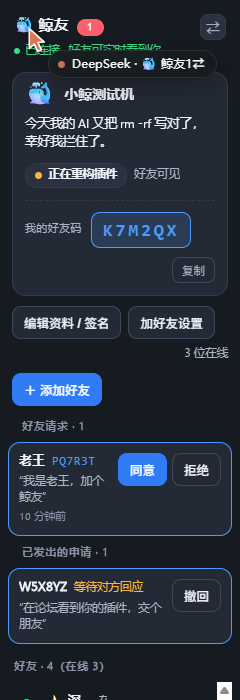
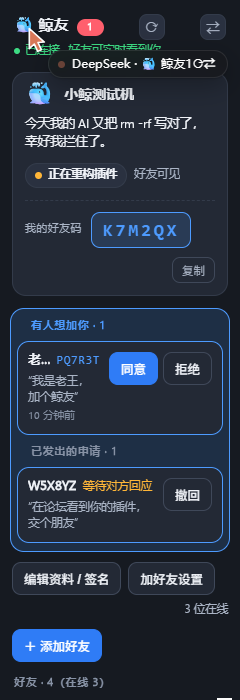
fix(friends): friend requests were never decryptable by the recipient
Root cause: a message is encrypted with the RECIPIENT's friend code, but
the receive path only tried the codes of people the user already knew
(friends + remembered requests). So for somebody who had added nobody
yet, candidateCodes() returned [] and every incoming friend request was
silently dropped -- which is exactly why the accept button never showed
up for anyone.

- candidateCodes() now starts with the user's own code (that is what a
  sender knows), then falls back to known relationships for older
  messages
- every request-ish message carries fromCode, so the recipient learns who
  is asking even though it only ever knew its own code; accept and remove
  read it the same way
- a delivered request now emits a toast and is answered with
  friend_request_ack, so the sender stops staring at 'waiting' blindly
- the request inbox moved directly under the profile card, highlighted
  with an accent border and the heading '有人想加你', plus a manual refresh
  button in the header for when a push goes missing

Tests: +3 (19 total). One of them models the exact old bug: a user with
zero friends must still be able to decrypt a request addressed to them.

diff --git a/lib/client.js b/lib/client.js
@@ -308,6 +308,8 @@ body[data-ds-dark-theme] .dshf-wrap{
 /* ---------- 好友申请 ---------- */
 .dshf-badge{display:inline-flex;align-items:center;justify-content:center;min-width:17px;height:17px;padding:0 5px;border-radius:999px;background:var(--dshf-err);color:#fff;font-size:10.5px;font-weight:700;line-height:1}
 .dshf-reqs{margin:0 8px 6px}
+.dshf-reqs.has-new{margin:2px 10px 10px;padding:6px 6px 2px;border-radius:14px;background:var(--dshf-accent-soft);border:1px solid var(--dshf-accent)}
+.dshf-sec-attn{color:var(--dshf-accent) !important;font-weight:700}
 .dshf-req{display:flex;align-items:flex-start;gap:9px;padding:10px;margin:0 0 6px;border-radius:12px;background:var(--dshf-card);border:1px solid var(--dshf-accent)}
 .dshf-req-main{min-width:0;flex:1}
 .dshf-req-line{display:flex;align-items:baseline;gap:7px}
@@ -500,14 +502,32 @@ body[data-ds-dark-theme] .dshf-wrap{
        * 所有可能收到消息的码：好友 + 待处理的申请方 + 我发出申请的对方。
        * 好友申请阶段对方还不是好友，所以必须把请求相关的码也加进来，否则解不开。
        */
+      /**
+       * 解密候选码。顺序很重要：
+       *   1. 自己的码 —— 别人发给我的消息（申请/接受/戳）都用「我的码」加密，
+       *      因为他们知道我的码。**这一条缺了，好友申请就永远收不到。**
+       *   2. 好友的码 —— 兼容早期版本用「对方码」加密的写法。
+       * 每个好友/申请相关码都试一遍，一份密文只会有一个码解得开。
+       */
       function candidateCodes() {
         const me = state.me
         if (!me) return []
-        const codes = new Set()
-        for (const f of me.friends) codes.add(f.code)
-        for (const r of (me.requests.incoming || [])) codes.add(r.code)
-        for (const r of (me.requests.outgoing || [])) codes.add(r.code)
-        return Array.from(codes)
+        const codes = []
+        const seen = new Set()
+        const add = (c) => {
+          if (typeof c !== 'string') return
+          const up = c.toUpperCase()
+          if (!up || seen.has(up)) return
+          seen.add(up)
+          codes.push(up)
+        }
+        // 1) 自己的码优先：别人加我时只知道我的码
+        add(me.code)
+        // 2) 已建立关系的人（双向兼容）
+        for (const f of (me.friends || [])) add(f.code)
+        for (const r of (me.requests.incoming || [])) add(r.code)
+        for (const r of (me.requests.outgoing || [])) add(r.code)
+        return codes
       }
 
       async function handleMessage(topic, payloadBytes) {
@@ -542,29 +562,50 @@ body[data-ds-dark-theme] .dshf-wrap{
 
           // ---------- 好友申请流程 ----------
           } else if (msg.kind === 'friend_request') {
-            // 别人加我：若已是好友则忽略；若开着 auto 就直接同意并回执
-            if (me.friends.some((f) => f.code === code)) return
+            // 别人加我：消息是用「我的码」加密的，所以申请人是谁要看 fromCode。
+            // 老版本没带 fromCode，就用当前命中的 code 兜底。
+            const fromCode = String(msg.fromCode || code).toUpperCase()
+            if (!validCode(fromCode)) return
+            if (me.friends.some((f) => f.code === fromCode)) return
             const inc = (me.requests.incoming || []).slice()
-            if (!inc.some((r) => r.code === code)) {
+            if (!inc.some((r) => r.code === fromCode)) {
               inc.push({
-                code,
+                code: fromCode,
                 fromNickname: msg.fromNickname || '',
                 message: msg.message || '',
                 ts: msg.ts || Date.now(),
               })
               await apiPost('/profile', { requests: { incoming: inc, outgoing: me.requests.outgoing || [] } })
               await refreshMe()
+              // 有人加我：弹出提示，避免"申请静静躺在列表里没人知道"
+              state.toasts = state.toasts || []
+              const tk = Math.random().toString(36).slice(2)
+              state.toasts.push({
+                key: tk,
+                text: (msg.fromNickname || fromCode) + ' 请求加你为好友，去「好友请求」里同意',
+              })
+              emit()
+              setTimeout(() => { state.toasts = (state.toasts || []).filter((t) => t.key !== tk); emit() }, 6000)
+              // 回执：告诉申请人「申请已送达」，否则对方只能干等
+              await sendTo(fromCode, { kind: 'friend_request_ack', fromCode: me.code, ts: Date.now() })
             }
             if (me.acceptMode === 'auto') {
-              await acceptRequest(code)
+              await acceptRequest(fromCode)
             }
             return
+          } else if (msg.kind === 'friend_request_ack') {
+            // 对方收到了我的申请（先解决「石沉大海」的焦虑）
+            const fromCode = String(msg.fromCode || code).toUpperCase()
+            const fr = state.friends.get(fromCode)
+            if (fr) { fr.acked = true; emit() }
+            return
           } else if (msg.kind === 'friend_accept') {
+            const fromCode = String(msg.fromCode || code).toUpperCase()
             // 我加的人同意了：互相成为好友，清掉我的 outgoing 记录
             const friends = me.friends.slice()
-            const out = (me.requests.outgoing || []).filter((r) => r.code !== code)
-            if (!friends.some((f) => f.code === code)) {
-              friends.push({ code, alias: msg.nickname || '', addedAt: Date.now() })
+            const out = (me.requests.outgoing || []).filter((r) => r.code !== fromCode)
+            if (!friends.some((f) => f.code === fromCode)) {
+              friends.push({ code: fromCode, alias: msg.nickname || '', addedAt: Date.now() })
               await apiPost('/friends', { friends })
             }
             await apiPost('/profile', { requests: { incoming: me.requests.incoming || [], outgoing: out } })
@@ -572,19 +613,21 @@ body[data-ds-dark-theme] .dshf-wrap{
             // 面板上给个 toast：用戳一戳的动画位提示一下
             state.toasts = state.toasts || []
             const tk = Math.random().toString(36).slice(2)
-            state.toasts.push({ key: tk, text: (msg.nickname || code) + ' 同意了你的好友请求' })
+            state.toasts.push({ key: tk, text: (msg.nickname || fromCode) + ' 同意了你的好友请求' })
             emit()
             setTimeout(() => { state.toasts = (state.toasts || []).filter((t) => t.key !== tk); emit() }, 2600)
             return
-          } else if (msg.kind === 'friend_remove' && isFriend) {
-            // 对方删了我：本地也删掉，并清掉相关请求
-            const friends = me.friends.filter((f) => f.code !== code)
+          } else if (msg.kind === 'friend_remove') {
+            // 对方删了我：消息用我的码加密，所以来源看 fromCode；兜底用命中码。
+            const fromCode = String(msg.fromCode || code).toUpperCase()
+            if (!state.friends.has(fromCode)) return
+            const friends = me.friends.filter((f) => f.code !== fromCode)
             await apiPost('/friends', { friends })
-            state.friends.delete(code)
+            state.friends.delete(fromCode)
             await apiPost('/profile', {
               requests: {
-                incoming: (me.requests.incoming || []).filter((r) => r.code !== code),
-                outgoing: (me.requests.outgoing || []).filter((r) => r.code !== code),
+                incoming: (me.requests.incoming || []).filter((r) => r.code !== fromCode),
+                outgoing: (me.requests.outgoing || []).filter((r) => r.code !== fromCode),
               },
             })
             await refreshMe()
@@ -615,6 +658,8 @@ body[data-ds-dark-theme] .dshf-wrap{
         await sendTo(code, {
           kind: 'friend_request',
           from: state.me.id,
+          // 关键：收件人解密后必须知道「是谁加的」，因为他只认识我的码
+          fromCode: state.me.code,
           fromNickname: state.me.nickname,
           message: entry.message,
           ts: entry.ts,
@@ -644,6 +689,7 @@ body[data-ds-dark-theme] .dshf-wrap{
         await sendTo(code, {
           kind: 'friend_accept',
           from: me.id,
+          fromCode: me.code,
           nickname: me.nickname,
           ts: Date.now(),
         })
@@ -679,7 +725,7 @@ body[data-ds-dark-theme] .dshf-wrap{
         await apiPost('/friends', { friends })
         state.friends.delete(code)
         await refreshMe()
-        await sendTo(code, { kind: 'friend_remove', from: me.id, ts: Date.now() })
+        await sendTo(code, { kind: 'friend_remove', from: me.id, fromCode: me.code, ts: Date.now() })
         sendPresence()
       }
 
@@ -748,6 +794,8 @@ body[data-ds-dark-theme] .dshf-wrap{
         },
         updateProfile, addFriend, removeFriend, poke, setAlias,
         acceptRequest, rejectRequest, cancelRequest, inviteLink,
+        /** 手动刷新一次本机资料与申请列表（推送丢失时的兜底）。 */
+        async refresh() { await refreshMe(); emit() },
         rotateBroker() {
           // 手动换节点：排除当前正在用的那个，逼探测挑另一个。
           const current = mqtt && mqtt.currentUrl ? mqtt.currentUrl() : undefined
@@ -976,8 +1024,10 @@ body[data-ds-dark-theme] .dshf-wrap{
       const inc = (me && me.requests.incoming) || []
       const out = (me && me.requests.outgoing) || []
       if (inc.length === 0 && out.length === 0) return null
-      return h('div', { className: 'dshf-reqs' },
-        inc.length > 0 ? h('div', { className: 'dshf-sec' }, '好友请求 · ' + inc.length) : null,
+      return h('div', { className: 'dshf-reqs' + (inc.length > 0 ? ' has-new' : '') },
+        inc.length > 0
+          ? h('div', { className: 'dshf-sec dshf-sec-attn' }, '有人想加你 · ' + inc.length)
+          : null,
         ...inc.map((r) => h(IncomingRow, { key: 'i' + r.code, req: r, store, onChange: force })),
         out.length > 0 ? h('div', { className: 'dshf-sec' }, '已发出的申请 · ' + out.length) : null,
         ...out.map((r) => h(OutgoingRow, { key: 'o' + r.code, req: r, store, onChange: force })),
@@ -1144,14 +1194,20 @@ body[data-ds-dark-theme] .dshf-wrap{
           h('div', { className: 'dshf-title' }, '🐳 鲸友',
             incCount > 0 ? h('span', { className: 'dshf-badge', title: incCount + ' 条好友请求待处理' }, String(incCount)) : null,
             h('button', {
-              className: 'dshf-mini', title: '切换中继节点',
+              className: 'dshf-mini', title: '手动刷新（检查有没有新申请）',
               style: { marginLeft: 'auto' },
+              onClick: () => store.refresh(),
+            }, '⟳'),
+            h('button', {
+              className: 'dshf-mini', title: '切换中继节点',
               onClick: () => store.rotateBroker(),
             }, '⇄'),
           ),
           h('div', { className: 'dshf-conn ' + (s.conn === 'connected' ? 'ok' : 'bad') }, connText),
         ),
         h(MeCard, { store, editing, setEditing }),
+        // 待处理的好友申请紧贴资料卡：这是用户最需要立刻看到的动作
+        h(RequestsCard, { store }),
         h('div', { className: 'dshf-actions' },
           h('button', { className: 'dshf-btn', onClick: () => setEditing((v) => !v) }, editing ? '收起' : '编辑资料 / 签名'),
           h('button', {
@@ -1166,7 +1222,6 @@ body[data-ds-dark-theme] .dshf-wrap{
         editing ? h(EditCard, { store, onClose: () => setEditing(false) }) : null,
         settings ? h(SettingsCard, { store, onClose: () => setSettings(false) }) : null,
         h(AddRow, { store }),
-        h(RequestsCard, { store }),
         h('div', { className: 'dshf-sec' }, secTitle),
         h('div', { className: 'dshf-list' },
           friends.length === 0

diff --git a/README.md b/README.md
@@ -107,6 +107,15 @@ dsh plugin --profile web add github:zlwzk/dsh-friends
 - 好友申请需要对方在线才能送达（对方离线时申请会留在本地待发，下次上线不自动重发——可以重新发一次）
 - 截图来自渲染 harness（真实 client.js + 真实 React 渲染，主题走宿主同一条 `data-ds-dark-theme` 路径），非桌面应用内实拍
 
+## 🩺 收不到好友申请？
+
+面板右上角有 **⟳ 刷新** 按钮，可以先手动拉一次。如果还是没有：
+
+1. 确认标题栏的连接状态是「已连接」（不是「重连中」/「连接被拒」），不是就点 **⇄** 换中继节点
+2. 确认对方**当时开着 DSH**——申请是实时消息，对方不在线收不到，需要重发
+3. 确认你没有把对方误判了：如果你切成了「无需同意」，对方加你会直接成功，不会出现在申请列表里
+4. 让对方重新发一次申请（旧的申请不会自动重投）
+
 ## 📄 License
 
 MIT
